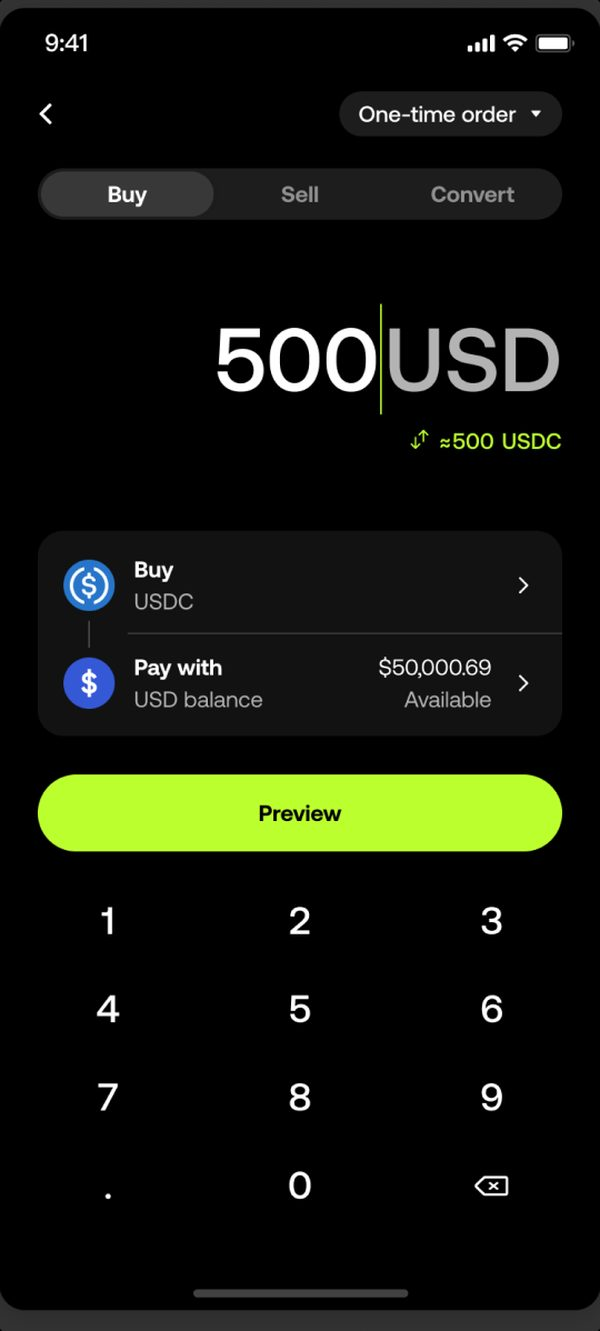
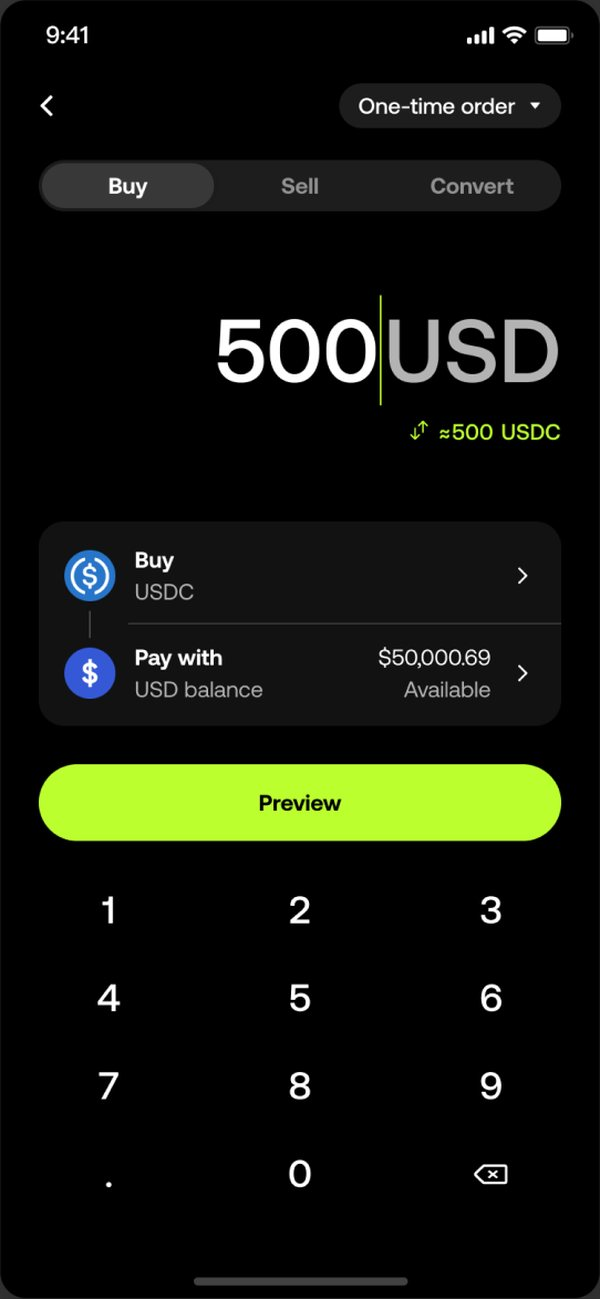
Crop OKX screens to the screen edge, removing the leftover phone bezel
Claude-Session: https://claude.ai/code/session_01MkzssbiWjDzMdy79T6ptKv

diff --git a/public/okx.html b/public/okx.html
@@ -336,9 +336,9 @@
       <p class="big-p">The assistant doesn't wait in a corner of the app to be found.</p>
       <p>It shows up once an order is large enough for the better rate to matter, at roughly fifty thousand dollars. Nobody gets offered a premium service on a fifty dollar trade. The sheet also says upfront that it only speaks English and Simplified Chinese, which is much easier to hear at the door than halfway through a trade.</p>
       <div class="phones">
-        <figure><img src="assets/okx-500.jpg" alt="Simple Buy with 500 USD entered and nothing extra offered" width="600" height="1331" loading="lazy"><figcaption><b>500 USD</b>Nothing changes.</figcaption></figure>
-        <figure><img src="assets/okx-50k.jpg" alt="Simple Buy with 50,000 USD entered, showing Get preferential rate via chat" width="600" height="1331" loading="lazy"><figcaption><b>50,000 USD</b>A better rate is offered, with a large order quote button.</figcaption></figure>
-        <figure><img src="assets/okx-sheet.jpg" alt="A sheet titled Get a better price via chat, with a Start chat button" width="600" height="1331" loading="lazy"><figcaption><b>The handover</b>What happens next, and which languages it speaks.</figcaption></figure>
+        <figure><img src="assets/okx-500.jpg" alt="Simple Buy with 500 USD entered and nothing extra offered" width="600" height="1299" loading="lazy"><figcaption><b>500 USD</b>Nothing changes.</figcaption></figure>
+        <figure><img src="assets/okx-50k.jpg" alt="Simple Buy with 50,000 USD entered, showing Get preferential rate via chat" width="600" height="1299" loading="lazy"><figcaption><b>50,000 USD</b>A better rate is offered, with a large order quote button.</figcaption></figure>
+        <figure><img src="assets/okx-sheet.jpg" alt="A sheet titled Get a better price via chat, with a Start chat button" width="600" height="1299" loading="lazy"><figcaption><b>The handover</b>What happens next, and which languages it speaks.</figcaption></figure>
       </div>
     </div>
   </section>
